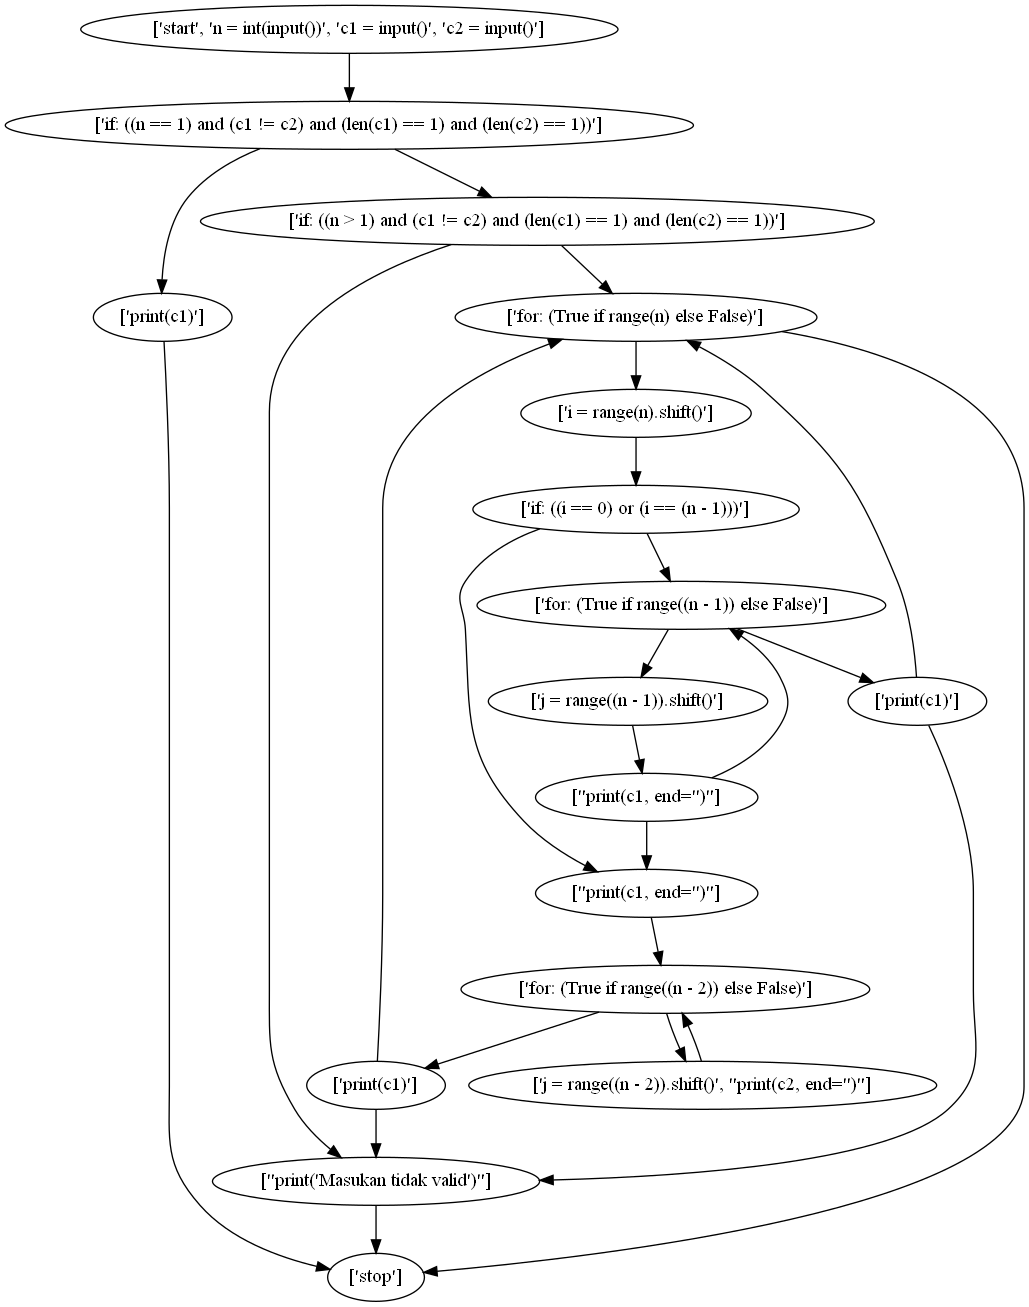
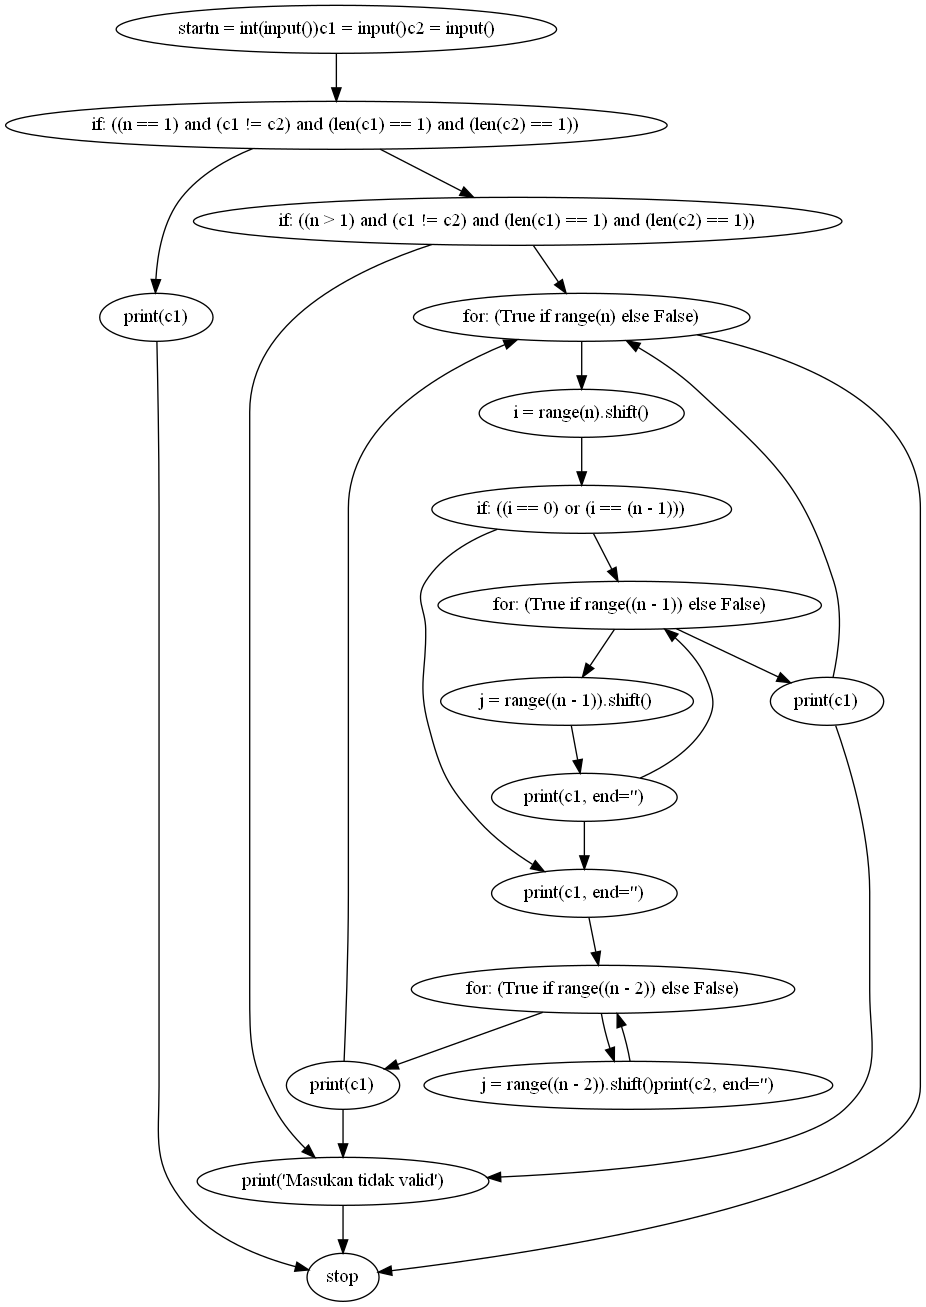
add classes for GED

diff --git a/src/api/functions.py b/src/api/functions.py
@@ -1,5 +1,7 @@
 from classes.graph import Graph
 from classes.node import Node
+from cfggrader.classes.graph import Graph as GEDGraph, Node as GEDNode, Edge as GEDEdge
+from cfggrader.classes.graph_component import GraphComponent
 import pygraphviz as pgv
 
 
@@ -27,7 +29,7 @@ def digraph_to_graph(digraph: pgv.agraph.AGraph):
         for out_edge in out_edges:
             edges_to_be_added.append(out_edge)
 
-        node = Node(int(node_count), node_label)
+        node = Node(int(node_count), {"rawLine": node_label})
         graph.add_node(node)
 
         node_count += 1
@@ -41,12 +43,22 @@ def digraph_to_graph(digraph: pgv.agraph.AGraph):
     return graph
 
 
+def node_raw_info_to_str(node: Node):
+    str_info = ''
+    for info in node.get_info():
+        if str_info == '':
+            str_info += info["rawLine"]
+        else:
+            str_info += f'\n{info["rawLine"]}'
+    return str_info
+
+
 def graph_to_digraph(graph: Graph):
     digraph = pgv.agraph.AGraph(directed=True)
 
     edges = []
     for node in graph.nodes:
-        digraph.add_node(str(node.get_label()), label=node.get_info())
+        digraph.add_node(str(node.get_label()), label=node_raw_info_to_str(node))
         for out_node in node.out_nodes:
             edges.append((str(node.get_label()), str(out_node.get_label())))
 
@@ -54,3 +66,26 @@ def graph_to_digraph(graph: Graph):
         digraph.add_edge(edge[0], edge[1])
 
     return digraph
+
+
+def pygraph_to_ged_graph(graph: Graph):
+    ged_graph: GEDGraph = GEDGraph()
+
+    # build nodes
+    id_node_dict = {}
+    for node in graph.get_nodes():
+        ged_node = GEDNode(node.label, node.info)
+        ged_graph.add_node(ged_node)
+        id_node_dict[ged_node.get_id()] = ged_node
+
+    # build edges
+    for node in graph.get_nodes():
+        for edge in node.get_out_nodes():
+            from_node = id_node_dict[node.get_label()]
+            to_node = id_node_dict[edge.get_label()]
+            ged_edge = GEDEdge(from_node=from_node, to_node=to_node)
+            from_node.add_edge(ged_edge)
+            to_node.add_edge(ged_edge)
+            ged_graph.add_edge(ged_edge)
+
+    return ged_graph

diff --git a/src/cfggrader/classes/graph_component.py b/src/cfggrader/classes/graph_component.py
@@ -1,0 +1,48 @@
+class GraphComponent:
+    def __init__(self, component_id=None, info={}):
+        self.component_id: int = component_id
+        self.info: dict = info
+
+    def set_info(self, info):
+        self.info = info
+
+    def get_info(self):
+        return self.info
+
+    def get_id(self):
+        return self.component_id
+
+
+class Node(GraphComponent):
+    def __init__(self, component_id=None, info={}):
+        self(component_id, info)
+        self.edges: list[Edge] = []
+
+    def get_edges(self):
+        return self.edges
+
+    def set_edges(self, edges: list):
+        self.edges = edges
+
+    def add_edge(self, edge):
+        self.edges.append(edge)
+
+
+class Edge(GraphComponent):
+    def __init__(self, info={}, from_node=None, to_node=None):
+        self()
+        self.set_info(info)
+        self.from_node: Node = from_node
+        self.to_node: Node = to_node
+
+    def set_from_node(self, from_node):
+        self.from_node = from_node
+
+    def set_to_node(self, to_node):
+        self.to_node = to_node
+
+    def get_from_node(self):
+        return self.from_node
+
+    def set_to_node(self):
+        return self.to_node

diff --git a/src/cfggrader/py_cost_function.py b/src/cfggrader/py_cost_function.py
@@ -1,0 +1,25 @@
+from cfggrader.classes.graph_component import *
+from cfggrader.cost_function import CostFunction
+
+
+class Constants:
+    EDGE_COST = 1
+    NODE_COST = 1
+
+class PyCostFunction(CostFunction):
+    def get_node_cost(self, a: Node, b: Node):
+        return self.calculate_node_difference(a, b) * Constants.NODE_COST
+
+    def get_edge_cost(self, a: Edge, b: Edge, a_node: Node, b_node: Node):
+        if ((a.from_node == a_node) == (b.from_node == b_node)):
+            return 0
+
+        # edge deletion
+        return 2 * Constants.EDGE_COST
+
+    @classmethod
+    def calculate_node_difference(cls, a, b):
+        # TODO: change label
+        if (a.info["rawLabel"] == b.info["rawLabel"]):
+            return 0
+        return 1

diff --git a/src/cfggrader/classes/graph.py b/src/cfggrader/classes/graph.py
@@ -1,0 +1,29 @@
+from cfggrader.classes.graph_component import *
+import copy
+
+
+class Graph:
+    def __init__(self):
+        self.nodes: list[Node] = []
+        self.edges = list[Edge] = []
+        self.id = string = ''
+
+    def set_nodes(self, nodes: list):
+        self.nodes = nodes
+
+    def set_edges(self, edges: list):
+        self.edges = edges
+
+    def set_id(self, graph_id):
+        self.id = graph_id
+
+    def add_node(self, node: Node):
+        self.nodes.append(node)
+
+    def add_edge(self, edge: Edge):
+        self.edges.append(edge)
+
+    def find_node_with_id(self, id: int):
+        for node in self.nodes:
+            if (node.component_id == id):
+                return node

diff --git a/src/classes/node.py b/src/classes/node.py
@@ -2,14 +2,14 @@ class Node:
     # label is id
     # info is label
     def __init__(self, label: int, info=None):
-        self.info: list[str] = []
+        self.info: list[dict] = []
         self.out_nodes: list[Node] = []
         self.in_nodes: list[Node] = []
         self.label: int = label
 
-        if isinstance(info, str) and len(info) > 0:
+        if isinstance(info, dict) and len(info) > 0:
             self.info = [info]
-        elif info and len(info) > 0:
+        elif isinstance(info, list) and len(info) > 0:
             self.info = info
 
     def add_in_nodes(self, node):

diff --git a/src/cfggrader/dfs_ged.py b/src/cfggrader/dfs_ged.py
@@ -1,0 +1,12 @@
+from cfggrader.classes.graph import Graph
+from cfggrader.classes.graph_component import *
+
+
+class DFSGED:
+    def __init__(self, source: Graph, target: Graph):
+        self.source = source
+        self.target = target
+        self.init()
+
+    def calculate_edit_distance(self):
+        pass

diff --git a/src/main.py b/src/main.py
@@ -17,6 +17,7 @@ digraph.draw('generatedimg/digraph2.png', prog='dot')
 cdigraph = graph_to_digraph(cgraph)
 cdigraph.draw('generatedimg/digraph_collapsed2.png', prog='dot')
 
+# print(cgraph)
 # print(digraph)
 # print("====================================")
 # print(cdigraph)

diff --git a/src/cfggrader/cost_function.py b/src/cfggrader/cost_function.py
@@ -1,0 +1,9 @@
+from cfggrader.classes.graph_component import *
+
+
+class CostFunction:
+    def get_node_cost(self, a: Node, b: Node):
+        pass
+
+    def get_edge_cost(self, a: Edge, b: Edge, a_node: Node, b_node: Node):
+        pass
